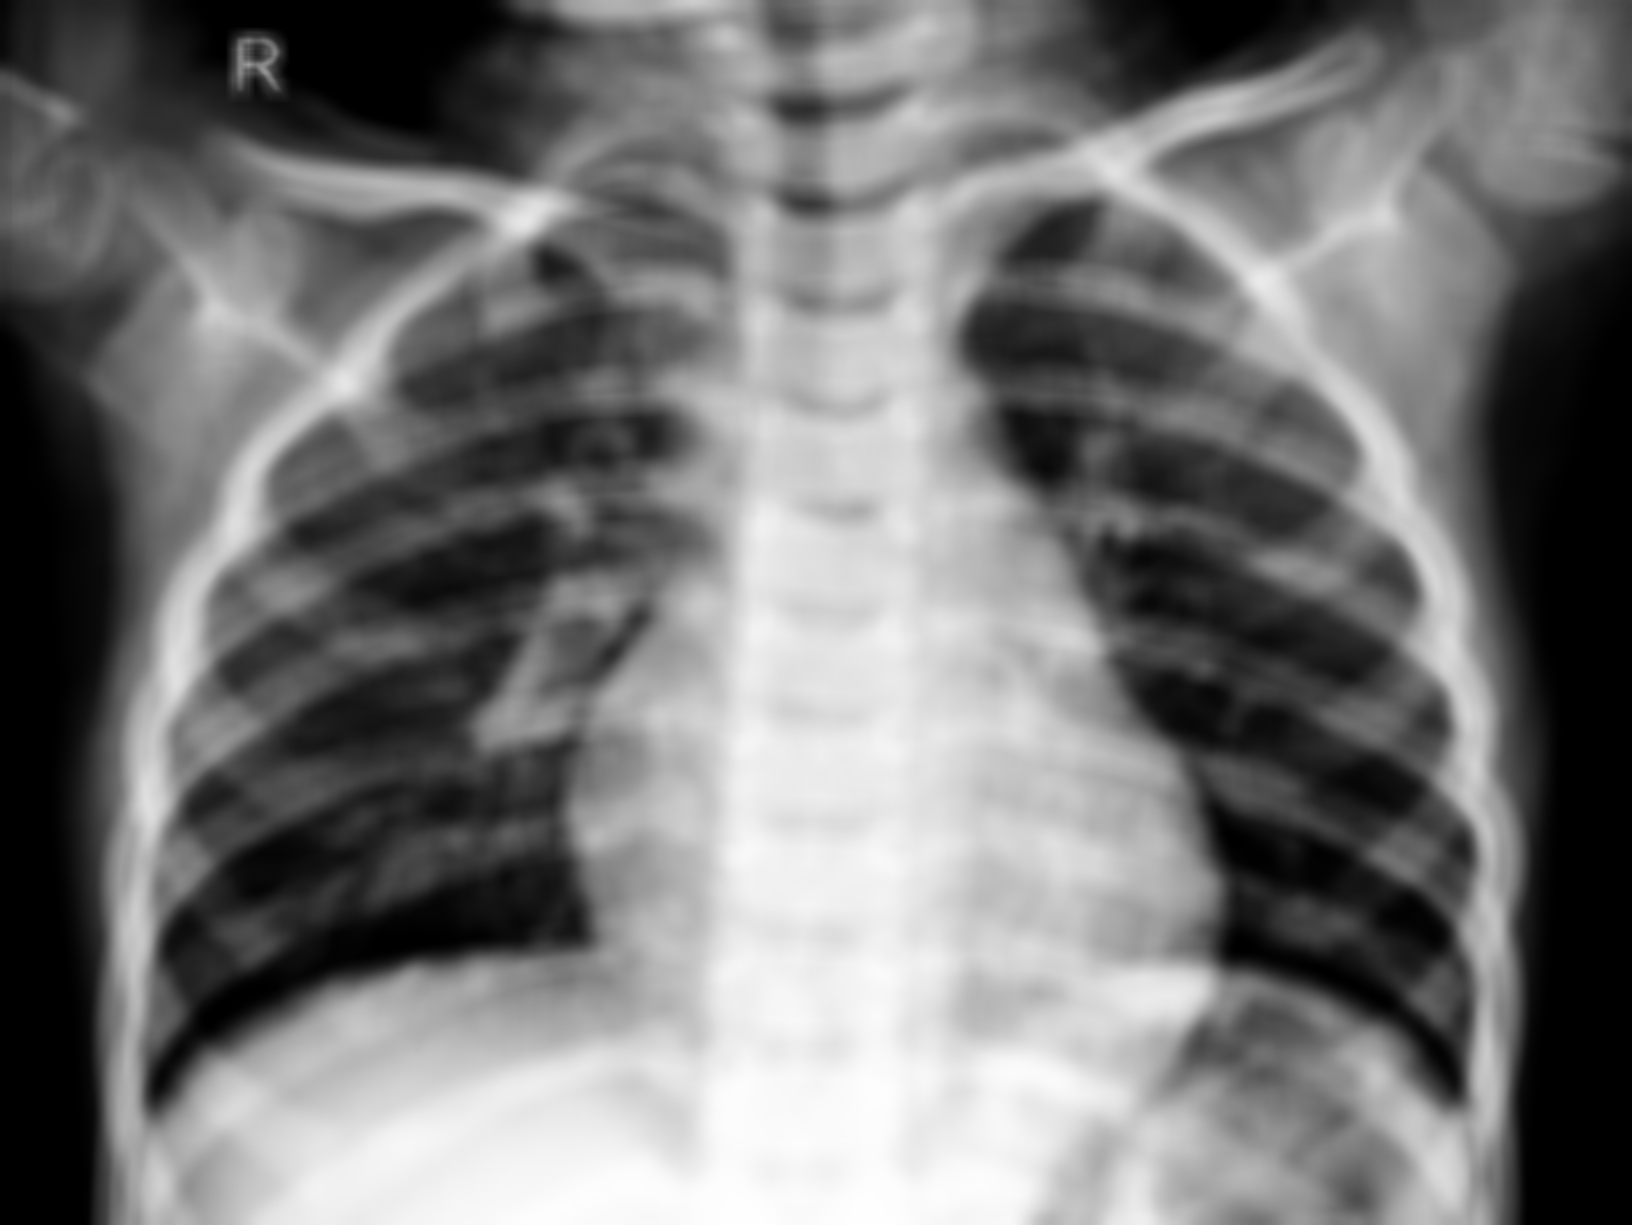
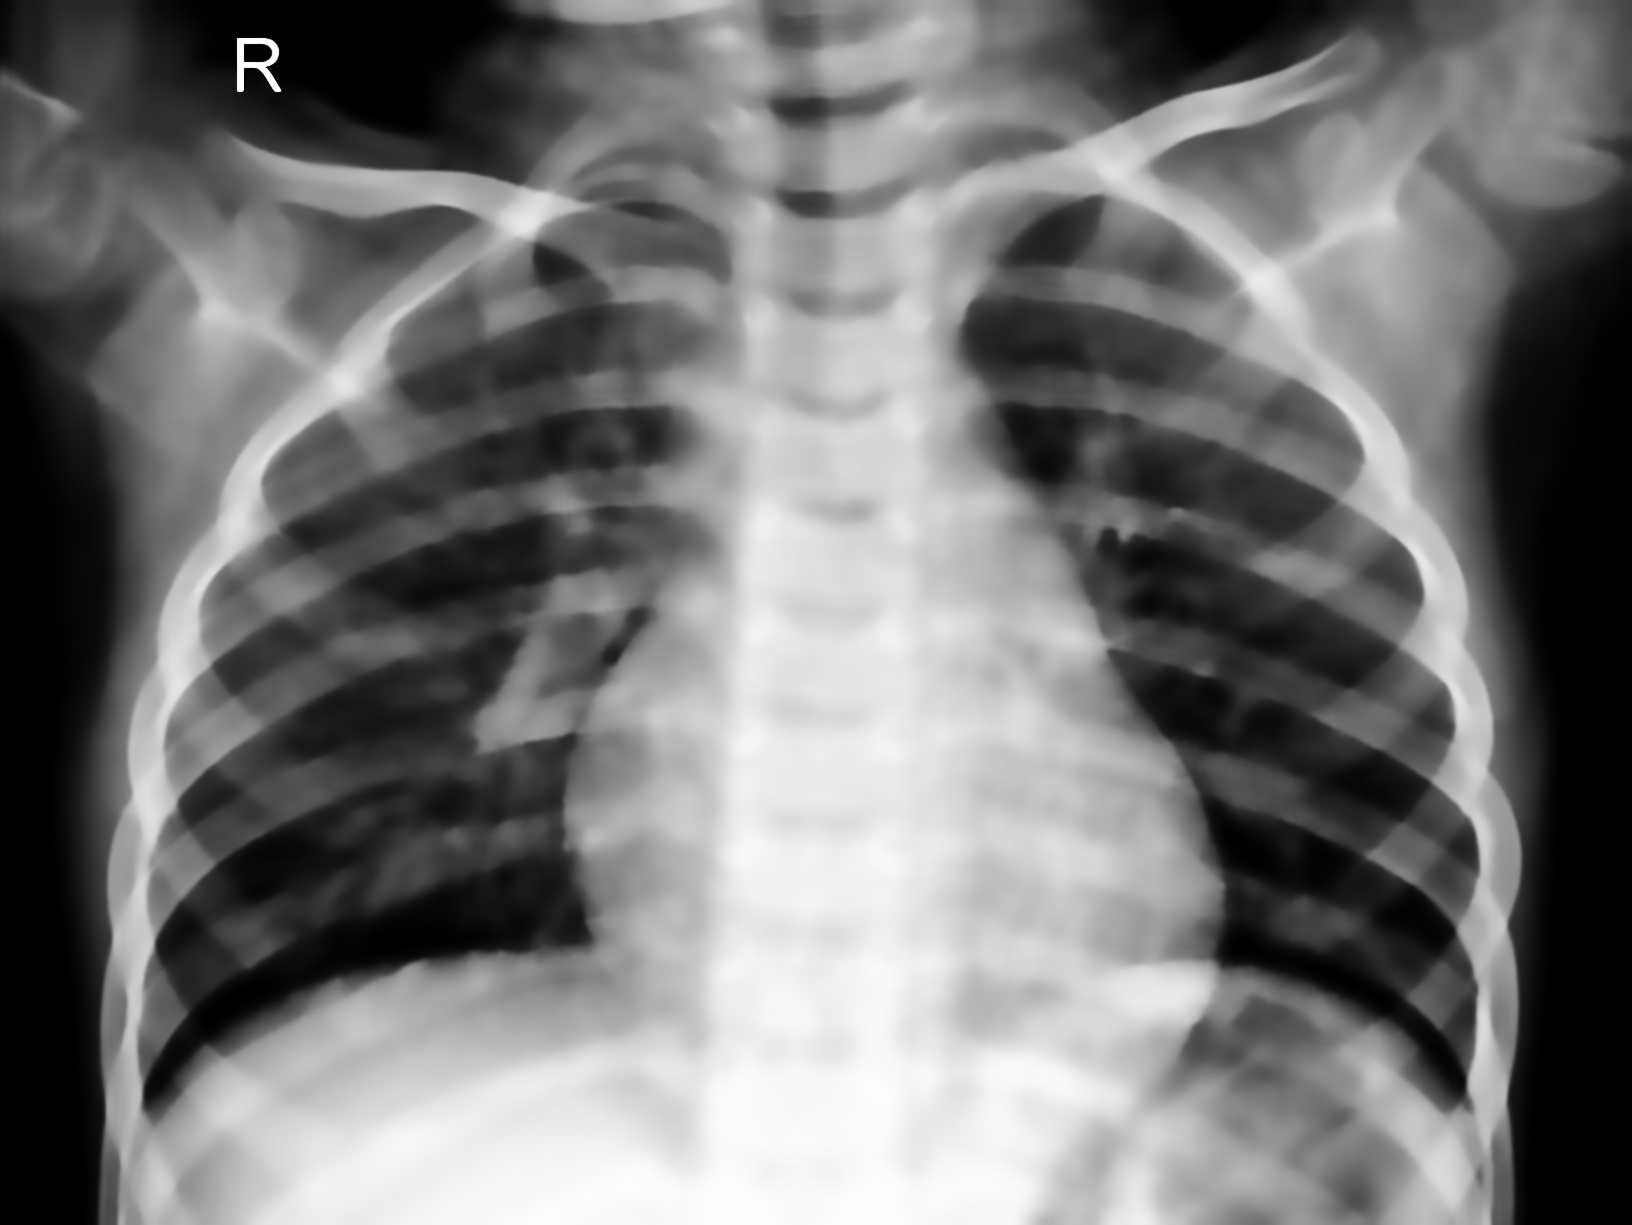
Change parameter on nlm

diff --git a/tools/denoiser.py b/tools/denoiser.py
@@ -4,7 +4,7 @@ import logging
 import cv2
 
 class Denoiser:
-    def apply_nlm(self, images, param=1.0):
+    def apply_nlm(self, images, param=0.2):
         logging.info(f'NLM to be applied: parameter = {param}')
         nlm_images = [restoration.denoise_nl_means(img, h=param, fast_mode=True) for img in images]
         logging.info('NLM applied')
